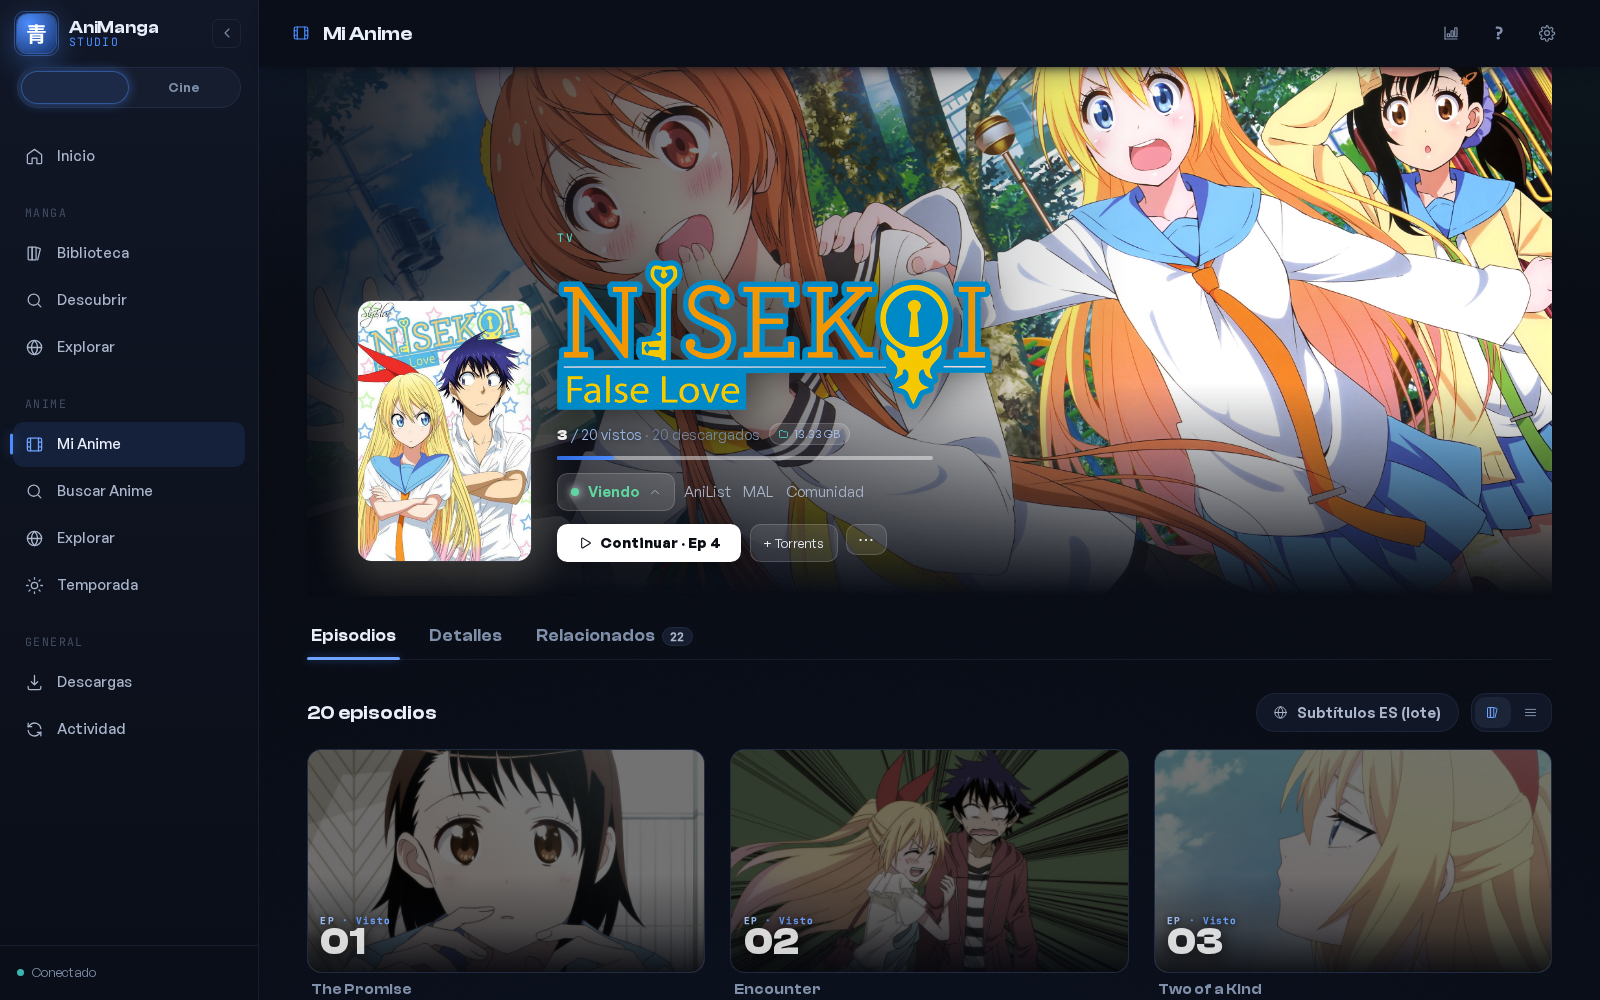
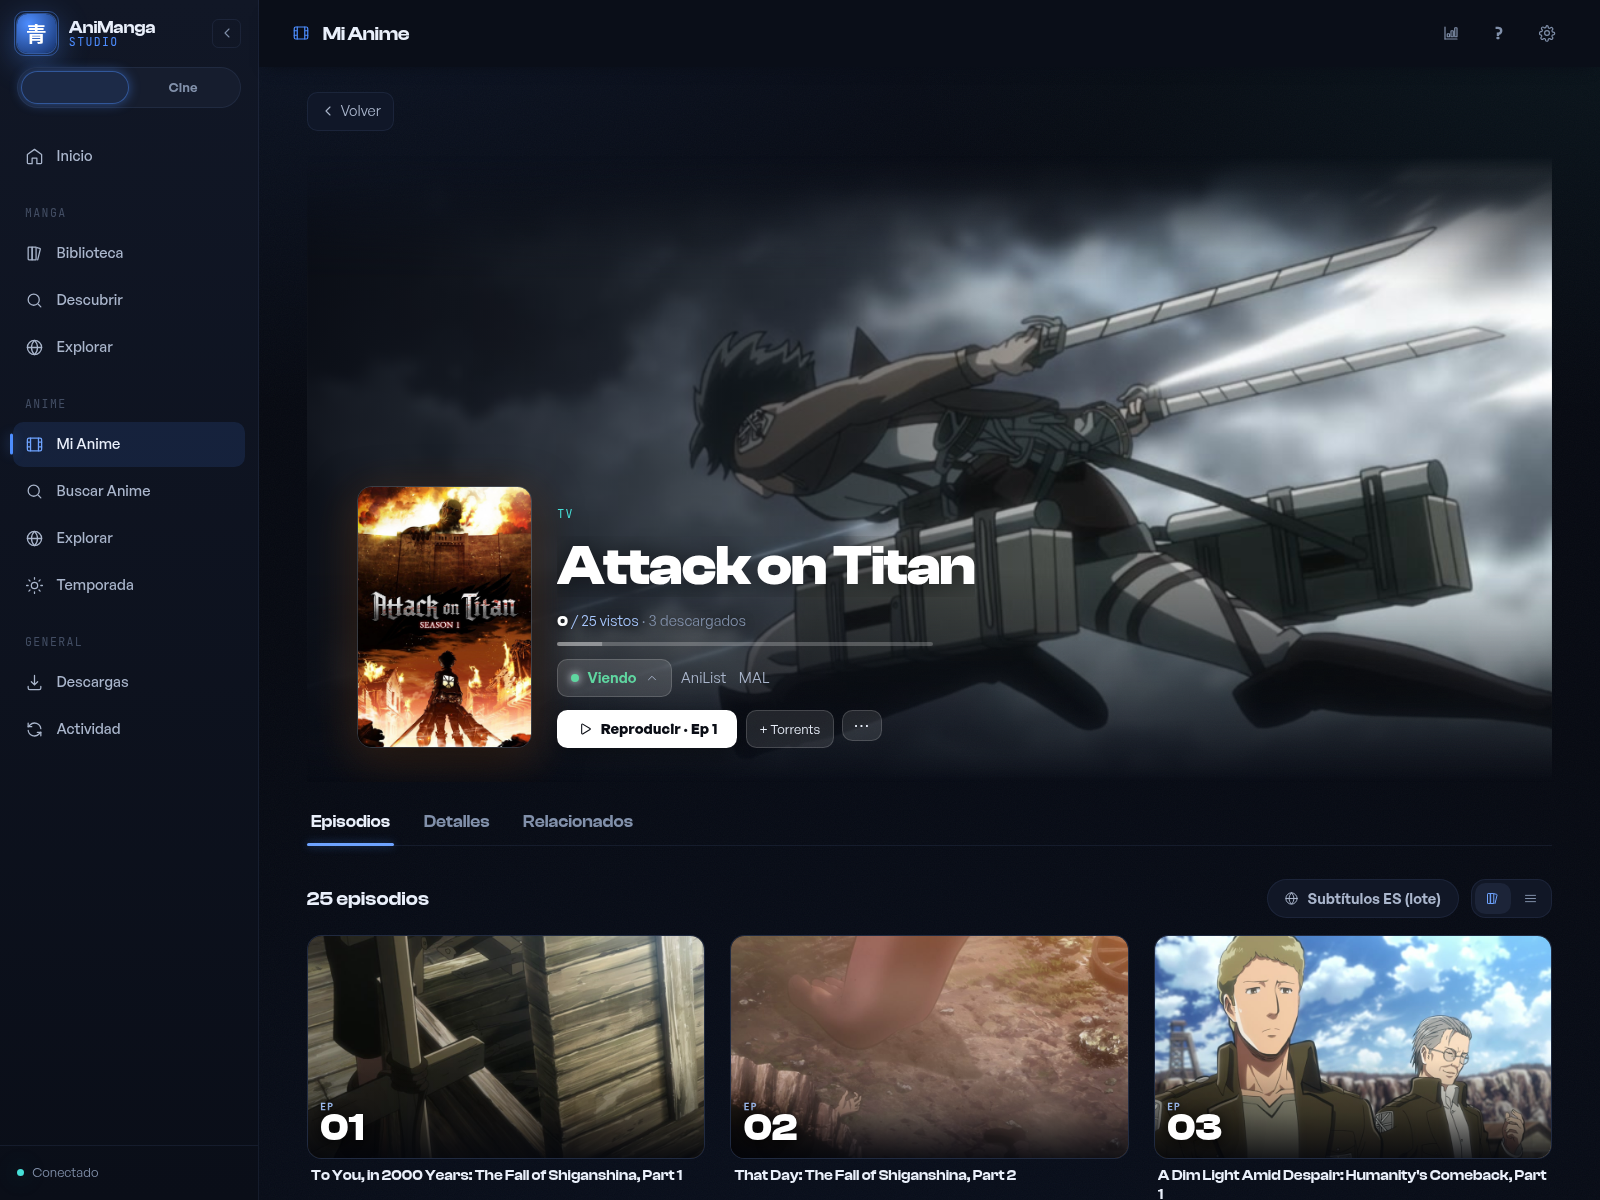
docs: limpia documentación interna y actualiza ficha de anime

diff --git a/frontend/src/components/anime/SubTrackModal.vue b/frontend/src/components/anime/SubTrackModal.vue
@@ -61,8 +61,8 @@ useModal(() => !!m.value, () => store.subTrackModal = null, modalEl)
             <section v-if="m.tracks.length">
               <h3 class="sec"><Icon name="spark" :size="13" /> Traducir pista incrustada (IA)</h3>
               <!-- OJO: se manda `sub_index` (índice ENTRE SUBTÍTULOS: 0,1,2…), NO `index` (índice
-                   absoluto del stream en el MKV: 2,3,4…). Mandar `index` hacía que pedir la pista
-                   inglesa (index 2) tradujera la ÁRABE (sub_index 2) — ver PENDING_BUGS. -->
+                   absoluto del stream en el MKV: 2,3,4…). Mandar `index` confundía los dos espacios
+                   y podía traducir una pista de otro idioma con el mismo número. -->
               <button v-for="t in m.tracks" :key="'t' + t.sub_index" class="trk"
                       @click="m.onPick ? m.onPick({ kind: 'track', sub_index: t.sub_index, language: t.language }) : store.startTranslate(m.anime, m.ep, t.sub_index)">
                 <span class="trk__lang">{{ (t.language || 'und').toUpperCase().slice(0,3) }}</span>

diff --git a/frontend/src/views/home/HomeView.vue b/frontend/src/views/home/HomeView.vue
@@ -1,13 +1,6 @@
 <script setup>
-/* Portada — la puerta de entrada de la app.
- *
- * Antes se aterrizaba en `library` (una rejilla de manga) y ninguna vista cruzaba dominios.
- * Esto es lo aprobado en la maqueta `docs/dev/mockups/b1-portada/`: UNA pieza de arte a sangre
- * con UNA acción, y debajo una sola fila «Continuar» que mezcla anime, manga, cine y novelas.
- *
- * ⚠ La vista «Hoy» de julio 2026 se rechazó por FEA, y era un panel de secciones apiladas. La
- * diferencia deliberada: esto no resume la app, ofrece lo siguiente que ibas a hacer.
- */
+/* Portada: una obra destacada y una fila «Continuar» que mezcla anime, manga,
+ * cine y novelas para llevar directamente a la siguiente acción. */
 import { computed, onMounted, onBeforeUnmount, ref, watch } from 'vue'
 import { useHomeStore, _hace } from '@/stores/home'
 import { useUiStore } from '@/stores/ui'

diff --git a/scripts/check-readme.py b/scripts/check-readme.py
@@ -7,7 +7,7 @@ import xml.etree.ElementTree as ET
 
 ROOT = Path(__file__).resolve().parents[1]
 FILES = ('README.md', 'docs/INSTALL.md', 'docs/INSTALL_DESKTOP.md',
-         'docs/ANDROID.md', 'docs/img/current/README.md')
+         'docs/ANDROID.md')
 
 def anchors(text):
     found = set()
@@ -18,6 +18,9 @@ def anchors(text):
 
 def main():
     checked = 0
+    for internal in ('docs/dev', 'docs/superpowers/plans',
+                     'docs/plan_tauri_desktop.md', 'docs/img/current/README.md'):
+        assert not (ROOT / internal).exists(), f'Internal agent document remains: {internal}'
     for name in FILES:
         path = ROOT / name
         content = path.read_text(encoding='utf-8')
@@ -39,7 +42,7 @@ def main():
     for path in screenshots:
         raw = path.read_bytes()
         assert raw[:4] == b'RIFF' and raw[8:12] == b'WEBP', f'Invalid WebP: {path.name}'
-    print(f'OK: {len(FILES)} documents, {checked} local references, eight WebP screenshots and SVG banner')
+    print(f'OK: {len(FILES)} guides, {checked} local references, eight WebP screenshots, no internal logs and SVG banner')
 
 if __name__ == '__main__':
     main()

diff --git a/src/api/anime_upscale.py b/src/api/anime_upscale.py
@@ -56,7 +56,7 @@ anime_upscale_bp = Blueprint('anime_upscale', __name__)
 # una serie que vas a ver esta noche, esperar 11 minutos por episodio no compensa.
 #
 # `min_por_min` = minutos de horno por minuto de vídeo. MEDIDO en la RTX 5070 con la GPU libre y el
-# emulador cerrado, las tres seguidas sobre el mismo clip (ver PROJECT_STATE). De ahí sale el tiempo
+# emulador cerrado, las tres seguidas sobre el mismo clip. De ahí sale el tiempo
 # que la interfaz enseña ANTES de encolar: un número inventado es peor que ninguno.
 #
 # ⚠ Y va CALIBRADO con un episodio entero, no con el clip. La «rápida» medía 3,4 min extrapolando

diff --git a/src/api/library_health.py b/src/api/library_health.py
@@ -57,8 +57,8 @@ def _services_snapshot() -> list:
     (versión, error) los da cada módulo en su propio `/status`.
 
     Hasta ahora sólo Suwayomi tenía dónde verse: que Sonarr, Radarr, Prowlarr o qBittorrent
-    estuvieran caídos se notaba únicamente por una lista vacía, que es la regla del repo al revés
-    ("falló" ≠ "no había"). Ver el constraint 3 de `docs/dev/PENDING_BUGS.md`.
+    estuvieran caídos se notaba únicamente por una lista vacía. Un fallo de conexión debe distinguirse
+    de una respuesta vacía legítima.
     """
     import socket
     from urllib.parse import urlparse

diff --git a/README.md b/README.md
@@ -92,12 +92,10 @@ opcionales; diagnóstico de biblioteca y copias de seguridad del perfil.
 
 ## Recorrido visual
 
-Capturas nuevas del **30 de septiembre de 2026**, tomadas de la interfaz real
-servida por el backend local. No son renders ni maquetas. Muestran la interfaz
-Vue compartida, excepto la imagen del reproductor, capturada directamente de la
-ventana nativa Windows durante la reproducción. No incluyen capturas de Android.
-La biblioteca oculta estaba desactivada y la ruta de exportación se ocultó en
-la captura correspondiente.
+Capturas de la interfaz real, no renders ni maquetas. La ficha de Attack on Titan
+usa un estado neutral de muestra y no expone progreso personal de la biblioteca.
+El reproductor se capturó directamente de la ventana nativa Windows durante la
+reproducción. No incluyen capturas de Android.
 
 ### Biblioteca de manga
 
@@ -124,7 +122,7 @@ Obras destacadas, continuar viendo y biblioteca con filtros de estado y género.
 El estado de visionado y los archivos disponibles son conceptos separados.
 Cada episodio reúne su imagen, progreso y acciones de reproducción o descarga.
 
-![Ficha de anime con episodios y miniaturas persistidas](docs/img/current/anime-detail.webp)
+![Ficha de Attack on Titan con sus episodios y miniaturas](docs/img/current/anime-detail.webp)
 
 ### Reproductor nativo de PC
 
@@ -271,7 +269,7 @@ animanga-studio/
 ├── tests/               # Regresiones del backend
 ├── suwayomi/            # Integración de fuentes de manga
 ├── servarr/             # Integración de series y películas
-├── docs/                # Guías de uso, instalación e historial técnico
+├── docs/                # Guías de uso, instalación e integraciones
 └── data/                # Datos locales generados; fuera de Git
 ```
 
@@ -285,9 +283,6 @@ principal ni el punto de partida para nuevas funciones.
 - [Modelos de escalado](docs/MODELS.md).
 - [Series y películas: Servarr](docs/SERVARR.md).
 - [Android, independencia y acceso al PC](docs/ANDROID.md).
-- [Procedencia y mantenimiento de las capturas](docs/img/current/README.md).
-- [Estado técnico y decisiones históricas](docs/dev/PROJECT_STATE.md).
-- [Pendientes y validaciones](docs/dev/PENDING_BUGS.md).
 
 ## Licencia y contenido
 

diff --git a/docs/ANDROID.md b/docs/ANDROID.md
@@ -43,14 +43,7 @@ Para uso fuera de casa, utiliza una red privada como Tailscale o WireGuard.
 WebDAV sigue siendo una integración disponible para lectores externos, no la
 descripción de la aplicación Android propia.
 
-## Procedencia y validación
+## Instalación Android
 
-Esta descripción se contrastó el 30-sep-2026 con el checkout Android y sus
-documentos, además de los contratos del backend. El historial de aquel proyecto
-registra pruebas en Xiaomi Pad 6; no se ejecutó una nueva prueba ni
-se instaló un APK durante la renovación del README de PC.
-
-No se incluyen capturas Android nuevas hasta poder obtenerlas y revisarlas en un
-dispositivo real. [ANDROID_MIGRATION.md](dev/ANDROID_MIGRATION.md) es el plan
-histórico: incluye decisiones y pendientes que no describen por sí solos el
-estado implementado. Para construir el APK, consulta el README del proyecto Android.
+Las instrucciones para compilar e instalar la app se mantienen junto al código
+Android, en el README de su repositorio independiente.
